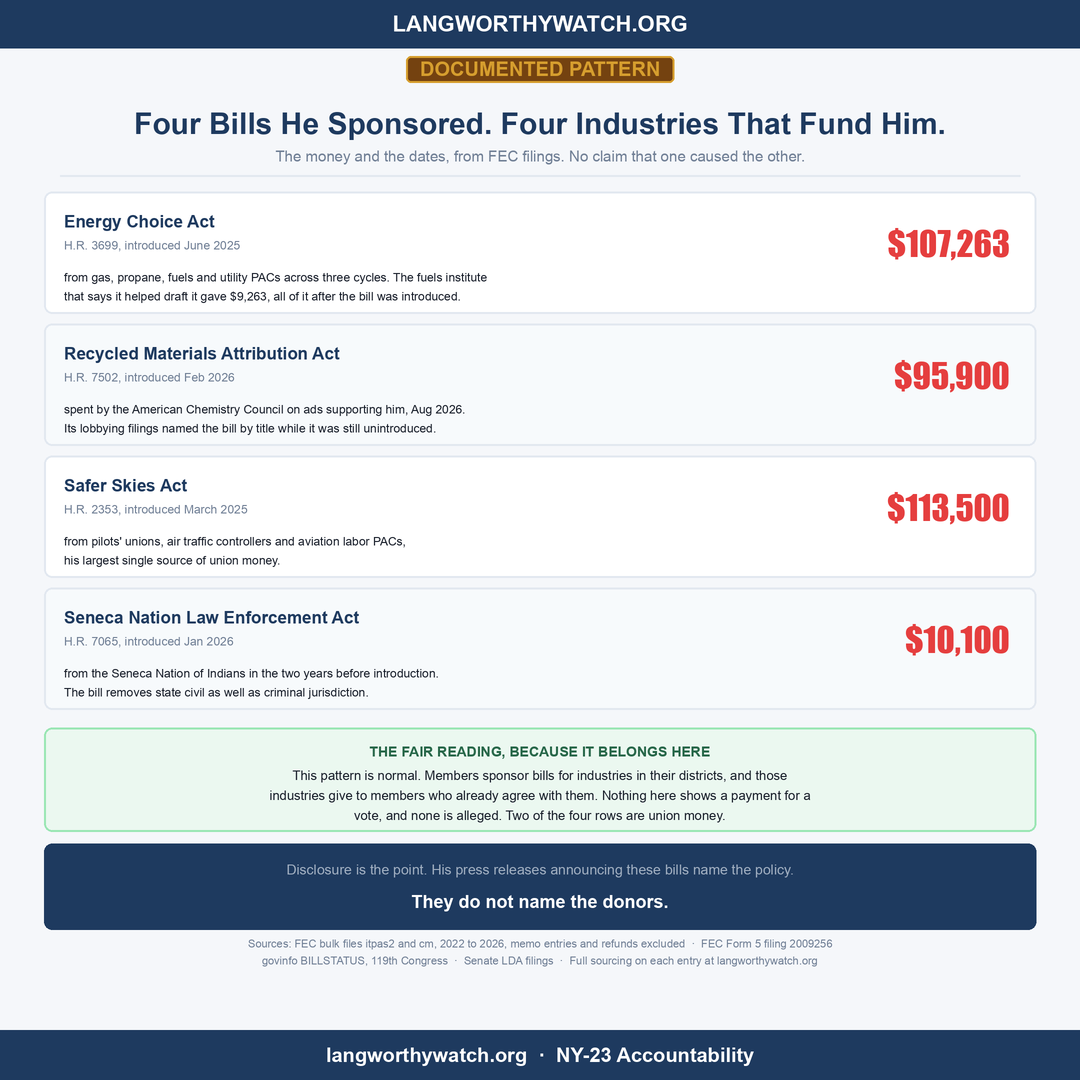
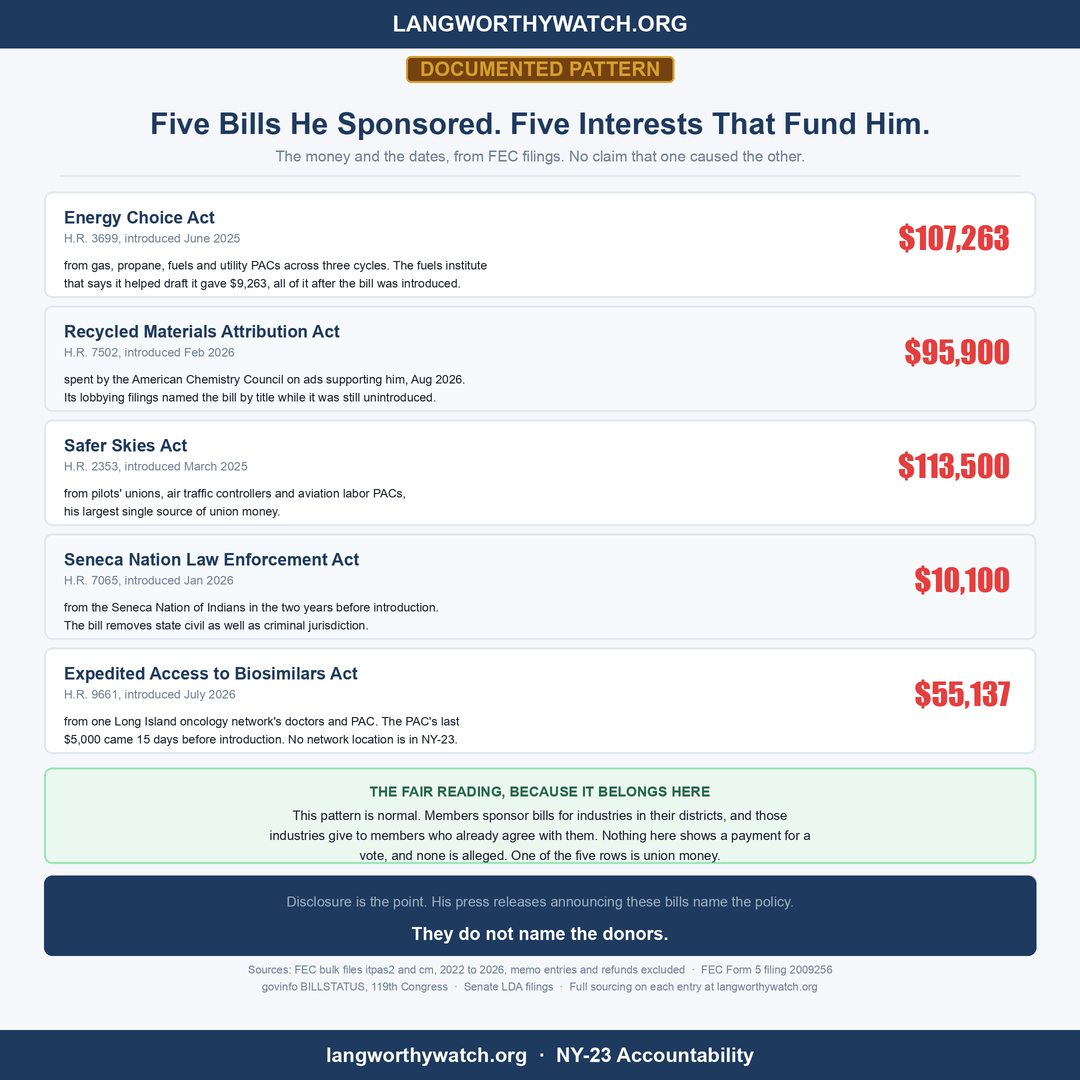
feat(social): donor/bill map updated to five rows with NYCBS

diff --git a/social-media/create_donor_bill_map_card.py b/social-media/create_donor_bill_map_card.py
@@ -23,7 +23,7 @@ c = Card(scale=2)
 c.brand_bar()
 
 y = c.badge(56, "DOCUMENTED PATTERN")
-y = c.title(y, 'Four Bills He Sponsored. Four Industries That Fund Him.', size=30)
+y = c.title(y, 'Five Bills He Sponsored. Five Interests That Fund Him.', size=30)
 y = c.subtitle(y + 6, 'The money and the dates, from FEC filings. No claim that one caused the other.', size=15)
 y = c.divider(y + 10)
 
@@ -48,30 +48,35 @@ ROWS = [
      "$10,100",
      "from the Seneca Nation of Indians in the two years before introduction.",
      "The bill removes state civil as well as criminal jurisdiction."),
+    ("Expedited Access to Biosimilars Act",
+     "H.R. 9661, introduced July 2026",
+     "$55,137",
+     "from one Long Island oncology network's doctors and PAC. The PAC's last",
+     "$5,000 came 15 days before introduction. No network location is in NY-23."),
 ]
 
-row_h = 122
+row_h = 106
 for i, (bill, sub, amt, l1, l2) in enumerate(ROWS):
-    top = y + i * (row_h + 10)
+    top = y + i * (row_h + 8)
     c.panel(44, top, c.w - 44, top + row_h, fill="#FFFFFF" if i % 2 == 0 else "#F7FAFC", outline=BORDER)
-    c.text(64, top + 30, bill, size=17, bold=True, fill=NAVY, anchor="lm")
-    c.text(64, top + 54, sub, size=12, fill=MUTED, anchor="lm")
-    c.text(64, top + 86, l1, size=12, fill=DARK, anchor="lm")
-    c.text(64, top + 105, l2, size=12, fill=DARK, anchor="lm")
-    c.text(c.w - 70, top + 52, amt, size=34, impact=True, fill=RED, anchor="rm")
-y = y + len(ROWS) * (row_h + 10) + 8
+    c.text(64, top + 26, bill, size=17, bold=True, fill=NAVY, anchor="lm")
+    c.text(64, top + 47, sub, size=12, fill=MUTED, anchor="lm")
+    c.text(64, top + 74, l1, size=12, fill=DARK, anchor="lm")
+    c.text(64, top + 92, l2, size=12, fill=DARK, anchor="lm")
+    c.text(c.w - 70, top + 46, amt, size=31, impact=True, fill=RED, anchor="rm")
+y = y + len(ROWS) * (row_h + 8) + 6
 
 # ---- the fair reading, on the card ---------------------------------------
-fr_h = 104
+fr_h = 96
 c.panel(44, y, c.w - 44, y + fr_h, fill="#EBF8F0", outline="#9AE6B4")
 c.text(c.w / 2, y + 24, "THE FAIR READING, BECAUSE IT BELONGS HERE", size=14, bold=True, fill=GREEN, anchor="mm")
 c.text(c.w / 2, y + 48, "This pattern is normal. Members sponsor bills for industries in their districts, and those", size=13, fill=DARK, anchor="mm")
 c.text(c.w / 2, y + 68, "industries give to members who already agree with them. Nothing here shows a payment for a", size=13, fill=DARK, anchor="mm")
-c.text(c.w / 2, y + 88, "vote, and none is alleged. Two of the four rows are union money.", size=13, fill=DARK, anchor="mm")
+c.text(c.w / 2, y + 88, "vote, and none is alleged. One of the five rows is union money.", size=13, fill=DARK, anchor="mm")
 y += fr_h + 12
 
 # ---- kicker -------------------------------------------------------------
-kick_h = 86
+kick_h = 80
 c.panel(44, y, c.w - 44, y + kick_h, fill=NAVY, outline=None)
 c.text(c.w / 2, y + 26, "Disclosure is the point. His press releases announcing these bills name the policy.",
        size=14, fill=LIGHTGRAY, anchor="mm")
